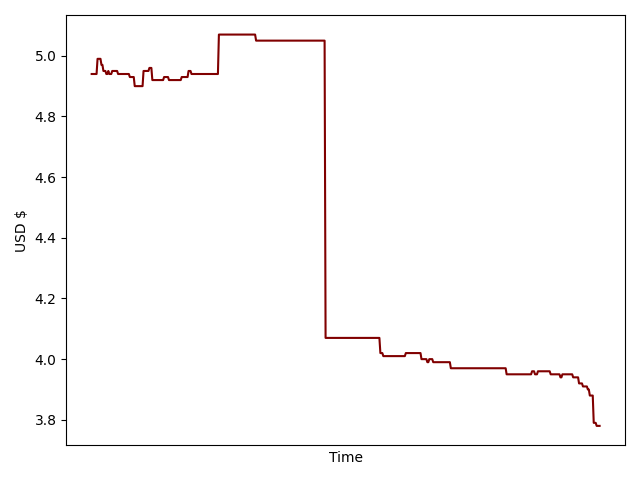
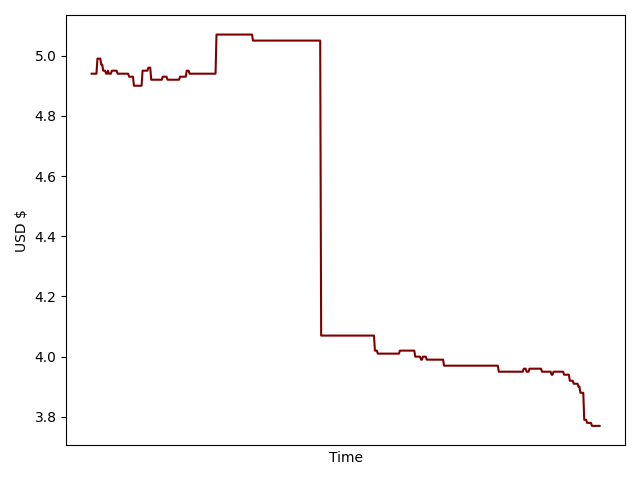
dynamic updates now work for whole flask app

diff --git a/static/js/reload.js b/static/js/reload.js
@@ -1,7 +1,8 @@
 $(document).ready(function(){
   $("form").submit(function(event){
       event.preventDefault();
-      $.post("/", "update", function(){
+      var pageURL = $(location).attr("href");
+      $.post(pageURL, "update", function(){
         setTimeout(function(){
           updatesrc = $('#graph').attr('src');
           $("#graph").removeAttr("src").attr("src", updatesrc + `?v=${getRandomInt(0,100)}`);

diff --git a/app.py b/app.py
@@ -29,6 +29,7 @@ def btc():
     if request.method == "POST":
         print(cb_acc.balance())
         cb_acc.current_price(coin)
+        os.remove(f"static/graph/{coin}.png")
         pf.plotCoin(coin)
     bal = str.splitlines(cb_acc.balance())        
     return render_template('main.html', bal=bal, imgsrc=f"static/graph/{coin}.png")
